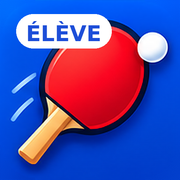
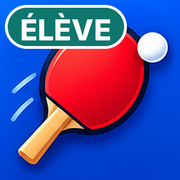
Icônes tennis de table : badge ÉLÈVE / PROF plus grand et en couleur, comme le demi-fond
Claude-Session: https://claude.ai/code/session_01UuASiQCvSrQnQNuK24r3AJ

Changed region(s): [[0.0, 0.0, 0.7222, 0.2778]]

diff --git a/sw.js b/sw.js
@@ -1,6 +1,6 @@
 /* Hors ligne : l'appli est gardée sur le téléphone après la 1re ouverture.
    Après une modification, augmenter VERSION (ex. tte-v12 → tte-v12). */
-const VERSION='tte-v15';
+const VERSION='tte-v16';
 const FICHIERS=['./','index.html','app.js','eleve-plus.js','demo.js','logique.js','donnees.js','qrcode.js','jsqr.js','scan.js','videos.js','principes.js','manifest.webmanifest',
   'icon-32.png','icon-180.png','icon-192.png','icon-512.png',
   'polices/archivo.woff2','polices/atkinson-400.woff2','polices/atkinson-700.woff2',
